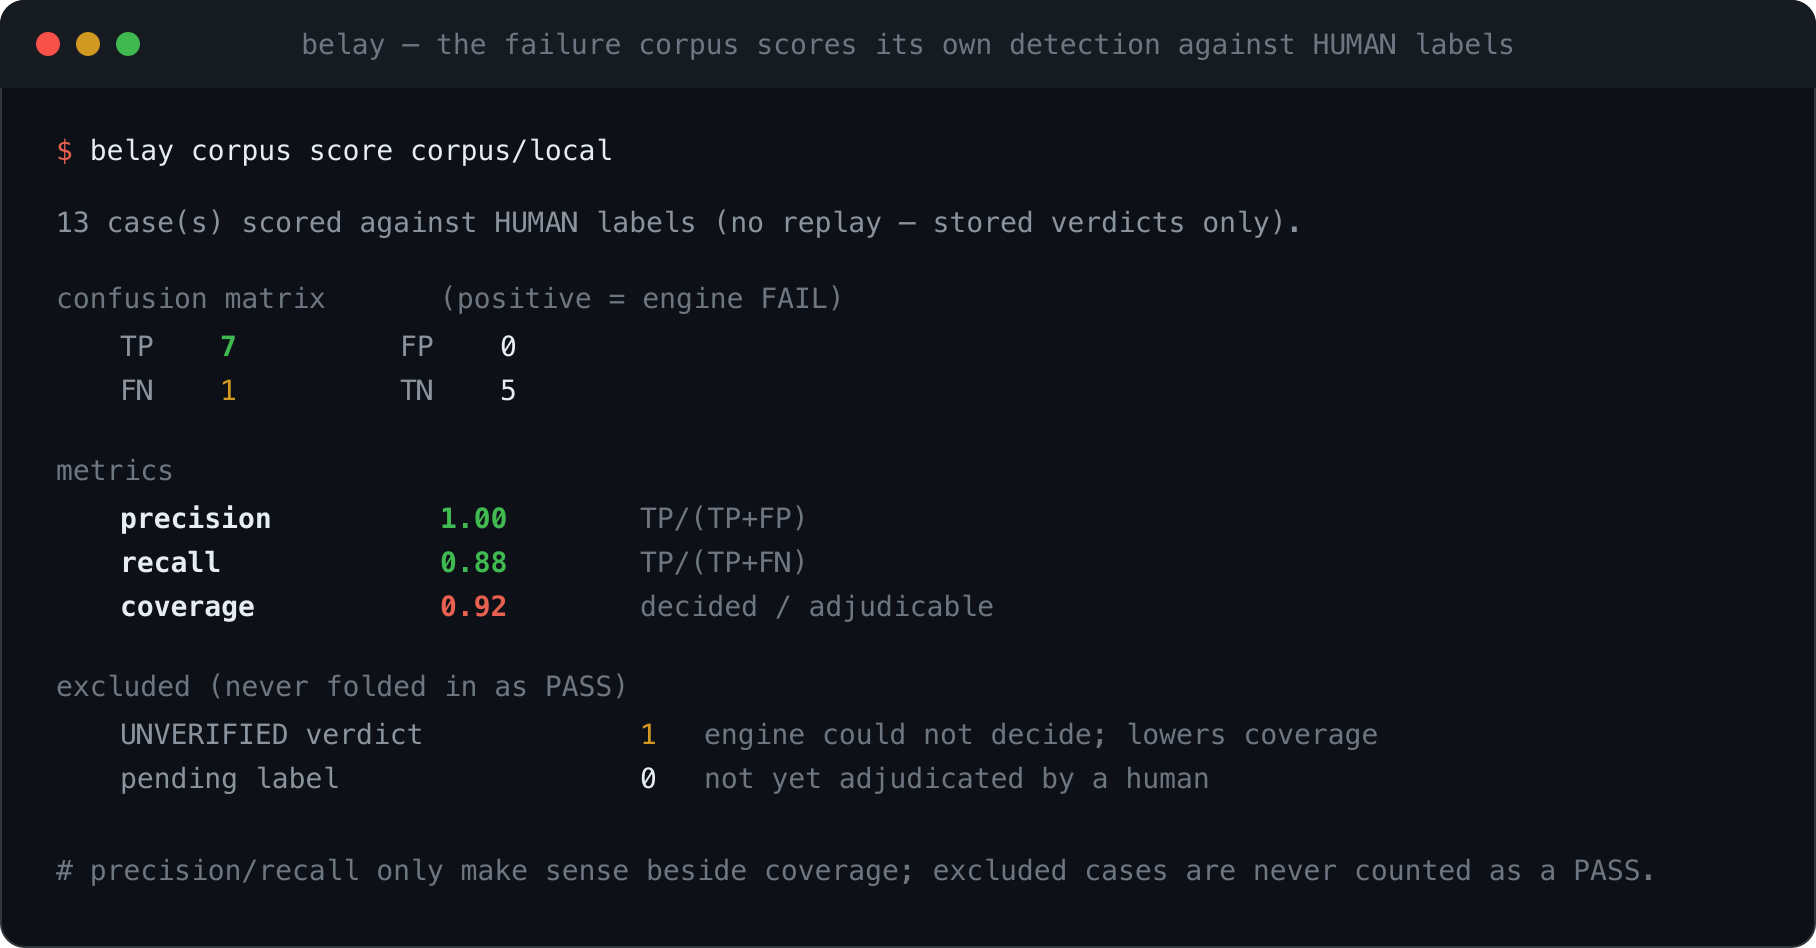
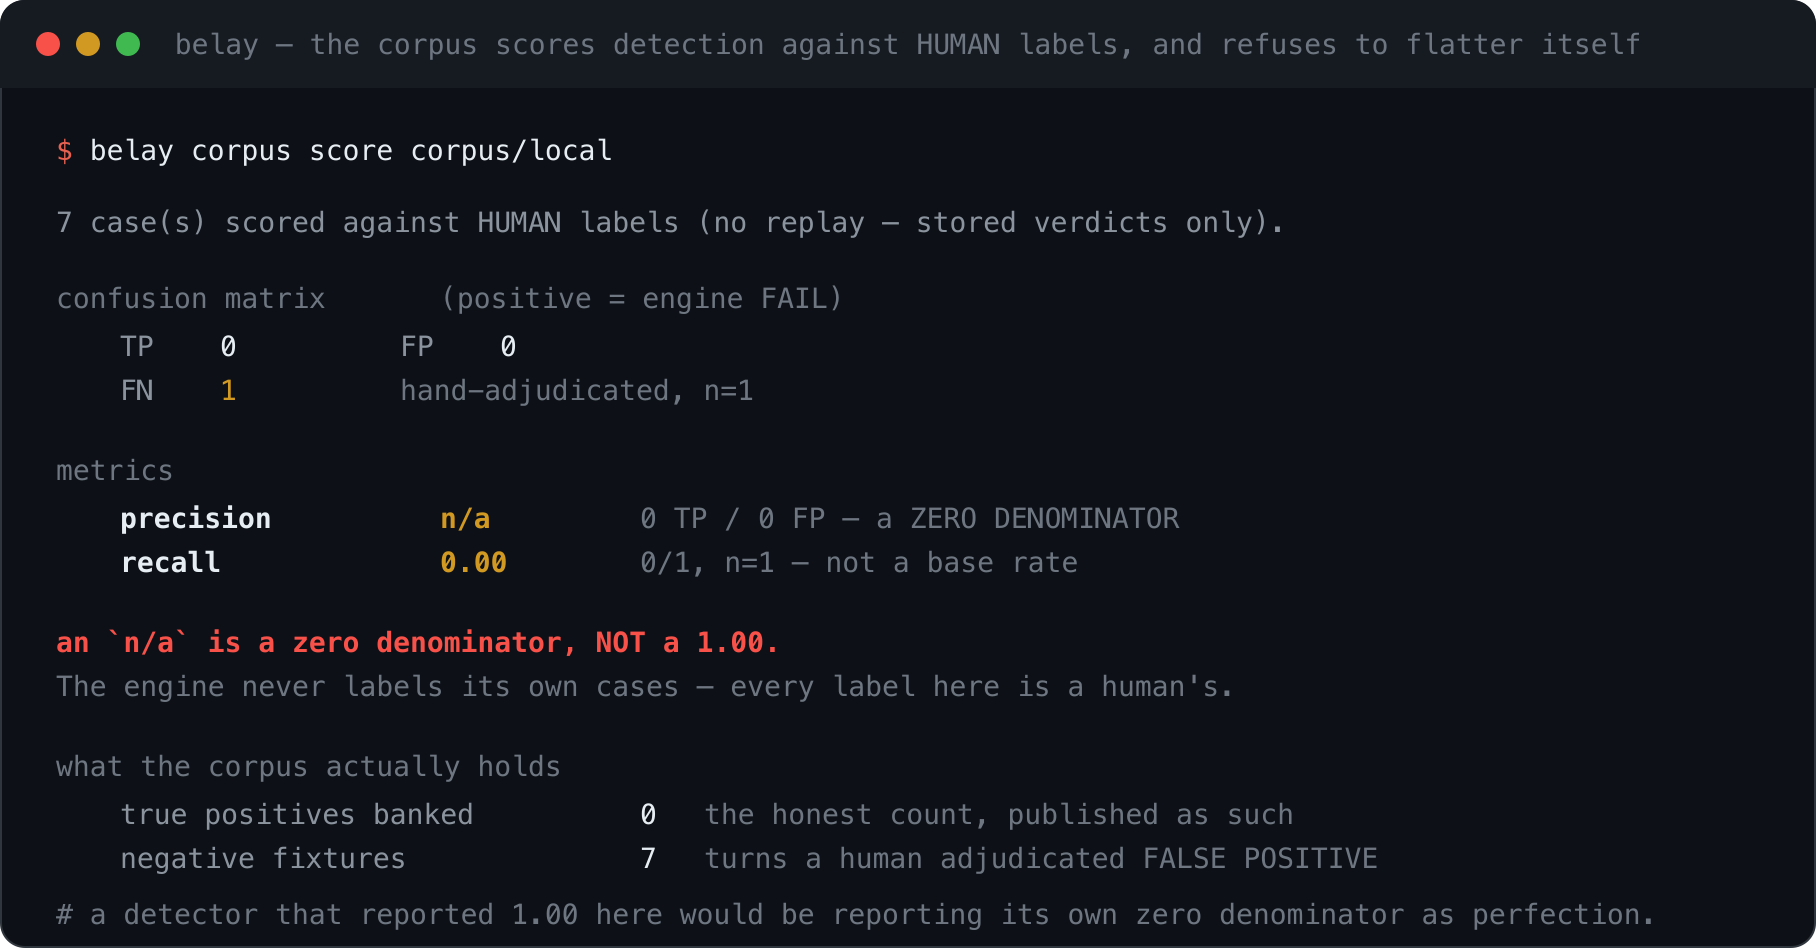
assets: launch imagery — real figures, and PH-spec gallery renders
Product Hunt gallery images travel WITHOUT the caption that sits under them in
the README, so anything a screenshot asserts has to stand alone. Two of ours
did not.

belay-corpus: showed precision 1.00, recall 0.88, coverage 0.92 over a 13-case
matrix. The README disclaimed it directly underneath — "illustrative sample
output ... not a measurement of Belay's detector" — so this was never an
unlabelled false claim, and I am not going to pretend it was. But the image
alone says 1.00, the project's own PH prohibition list forbids exactly that
claim, and the record's standing correction is that "an n/a is a zero
denominator, NOT a 1.00". An asset that needs a paragraph to stop it misleading
is the wrong asset. It now shows the real thing: TP 0, FP 0, FN 1
(hand-adjudicated, n=1), precision n/a, recall 0.00 — and says in the frame why
a 1.00 there would be a detector reporting its own zero denominator as
perfection. That is a better story than the fake one.

belay-verify: showed "A1 invariant PASS — tests/ read-only". That rule was
RETIRED at precision 0.00 (the 2026-07-29 PIVOT); the default has been
no-assertion-weakening on tests/testing since. Shipping it would have
advertised the discredited rule on the launch page. Replaced with real output
observed today against an off-the-shelf MCP server: the PASS turn with A2
replay, A2 effect, effect:network NOT_COVERED carrying its coverage sentence,
and the A1 zero-exposure note that refuses to bank silence as evidence.
[…]

diff --git a/README.md b/README.md
@@ -179,11 +179,15 @@ The engine is built in capability layers (see [the roadmap](docs/technical/CAPAB
 
 <p align="center"><img src="https://raw.githubusercontent.com/haqaliz/belay/master/assets/belay-replay.png" alt="belay replay output: five turns, three REPLAYED as result-equivalent and two UNVERIFIED (manifest not found; replay did not answer target); a coverage block totals 9 turns, 7 replayed, 2 unverified; the UNVERIFIED RATE is 2 of 9 or 22 percent, broken down by cause. It emits no PASS or FAIL." width="760" /></p>
 
-**Every caught failure compounds.** `belay corpus score` grades the engine's own detection against *human* labels — precision and recall reported only ever beside coverage, with `UNVERIFIED` verdicts and unadjudicated cases excluded, never folded in as a PASS.
+**A `PASS` that says exactly what it covers.** `belay verify` re-executes each turn against its restored pre-state. The coverage line travels *with* the status — the network dimension is `NOT_COVERED`, and a rule that judged nothing says so rather than banking its silence as evidence.
 
-<p align="center"><img src="https://raw.githubusercontent.com/haqaliz/belay/master/assets/belay-corpus.png" alt="belay corpus score output: 13 cases scored against human labels; a confusion matrix of TP 7, FP 0, FN 1, TN 5; metrics precision 1.00, recall 0.88, coverage 0.92; an excluded block lists one UNVERIFIED verdict and zero pending labels that are never counted as a PASS." width="760" /></p>
+<p align="center"><img src="https://raw.githubusercontent.com/haqaliz/belay/master/assets/belay-verify.png" alt="belay verify output for one turn: turn 0 write_file PASS, with A2 replay PASS (the replayed reply reproduced the recorded reply), A2 effect PASS (declared readOnlyHint false, the observed effect conforms), A2 effect:network NOT_COVERED because openWorldHint was declared false but Belay observes no network egress so it is never a PASS and never a fabricated FAIL, and A1 invariant PASS for no-assertion-weakening on tests and testing with an exposure note that zero files were in scope so it carries no information about the rule. The aggregate reads one turn verified, PASS 1, WARN 0, FAIL 0, UNVERIFIED 0." width="760" /></p>
 
-<p align="center"><sub><b>The figures in that screenshot are illustrative sample output — a fixture corpus, showing the shape of the report. They are <b>not</b> a measurement of Belay's detector.</b> Belay's own corpus reads <code>precision n/a</code> (0 TP / 0 FP — a zero denominator, <b>not</b> a 1.00) and recall unmeasured, because no miss has been banked. See <a href="#what-the-a1-default-does-and-does-not-judge">Coverage &amp; limits</a>.</sub></p>
+**Every caught failure compounds — and the corpus refuses to flatter itself.** `belay corpus score` grades the engine's own detection against *human* labels; the engine never labels its own cases.
+
+<p align="center"><img src="https://raw.githubusercontent.com/haqaliz/belay/master/assets/belay-corpus.png" alt="belay corpus score output: 7 cases scored against human labels; a confusion matrix of TP 0, FP 0 and FN 1 (hand-adjudicated, n=1); metrics precision n/a because 0 TP and 0 FP is a zero denominator, and recall 0.00 from 0 of 1, not a base rate; a line states that an n/a is a zero denominator, NOT a 1.00, and that the engine never labels its own cases; the corpus holds 0 true positives banked and 7 negative fixtures, turns a human adjudicated false positive." width="760" /></p>
+
+<p align="center"><sub><b>Those are Belay's own figures, not sample output.</b> <code>precision n/a</code> is a <b>zero denominator, not a 1.00</b>: the corpus holds <b>0 true positives</b>, and its 7 cases are turns a human adjudicated <i>false positives</i>, kept as negative fixtures. Recall is <code>0.00</code> (0/1, n=1) — one hand-adjudicated miss, which is not a base rate. See <a href="#what-the-a1-default-does-and-does-not-judge">Coverage &amp; limits</a>.</sub></p>
 
 ### The verdict: three axes, deliberately unequal
 
